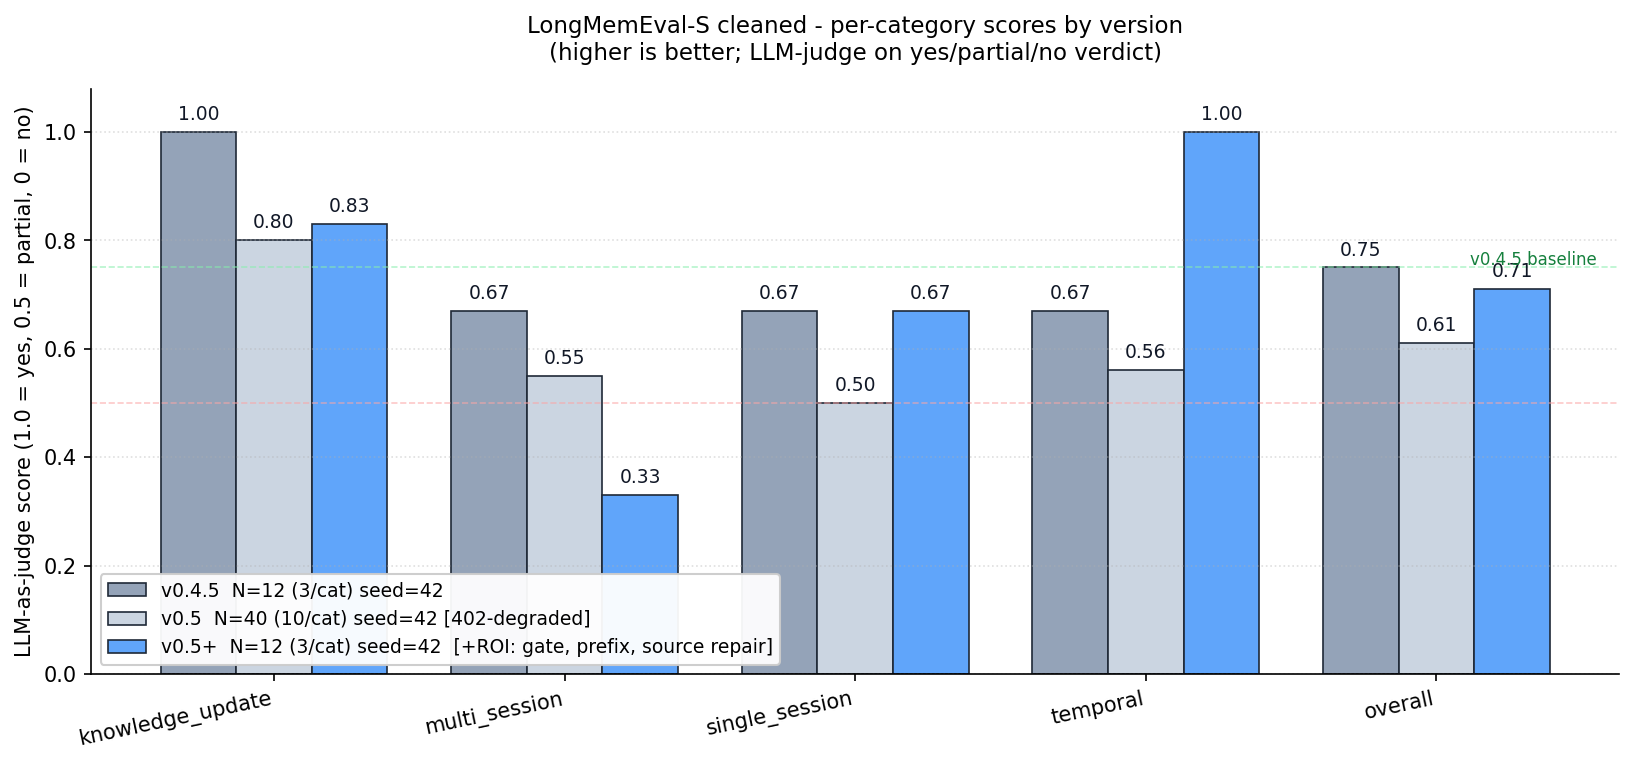
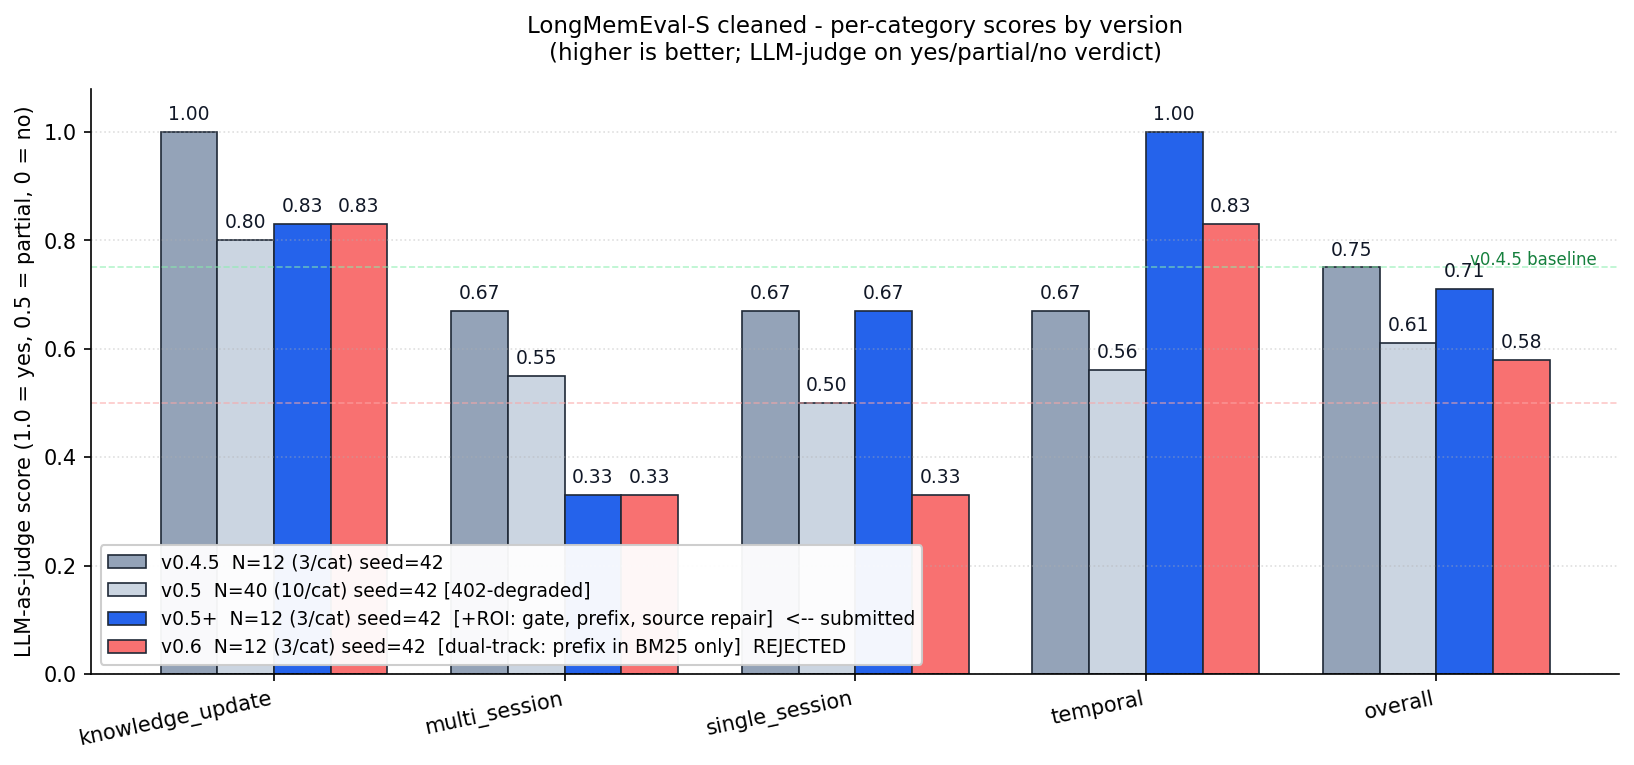
docs: record v0.6 negative result + updated chart

diff --git a/scripts/plot_longmemeval.py b/scripts/plot_longmemeval.py
@@ -41,14 +41,25 @@ RESULTS: list[dict] = [
         },
     },
     {
-        "label": "v0.5+  N=12 (3/cat) seed=42  [+ROI: gate, prefix, source repair]",
-        "color": "#60a5fa",
+        "label": "v0.5+  N=12 (3/cat) seed=42  [+ROI: gate, prefix, source repair]  <-- submitted",
+        "color": "#2563eb",
         "scores": {
             "knowledge_update": 0.83,
             "multi_session":    0.33,
             "single_session":   0.67,
             "temporal":         1.00,
             "overall":          0.71,
+        },
+    },
+    {
+        "label": "v0.6  N=12 (3/cat) seed=42  [dual-track: prefix in BM25 only]  REJECTED",
+        "color": "#f87171",
+        "scores": {
+            "knowledge_update": 0.83,
+            "multi_session":    0.33,
+            "single_session":   0.33,
+            "temporal":         0.83,
+            "overall":          0.58,
         },
     },
 ]